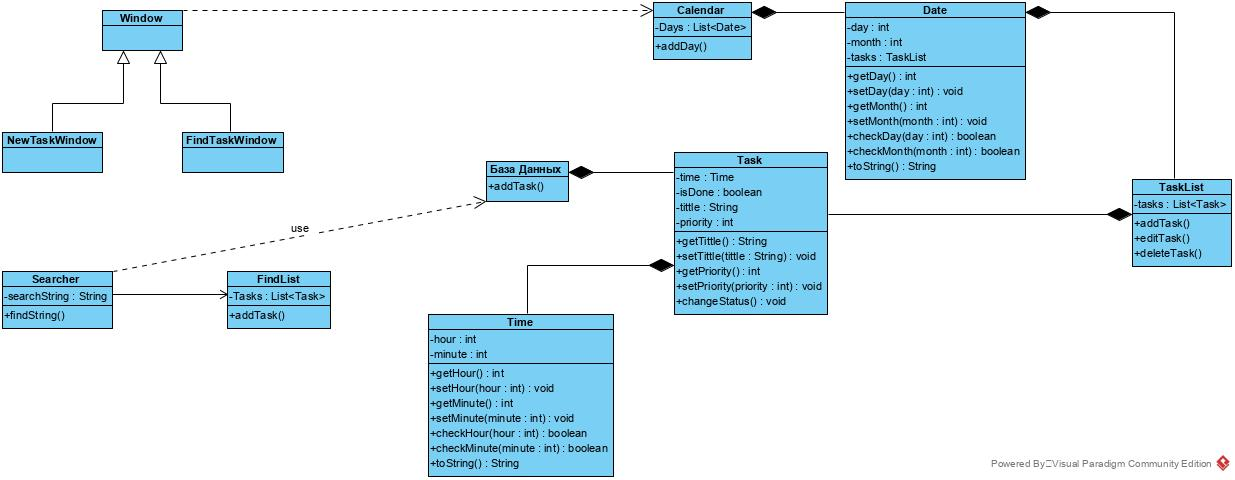
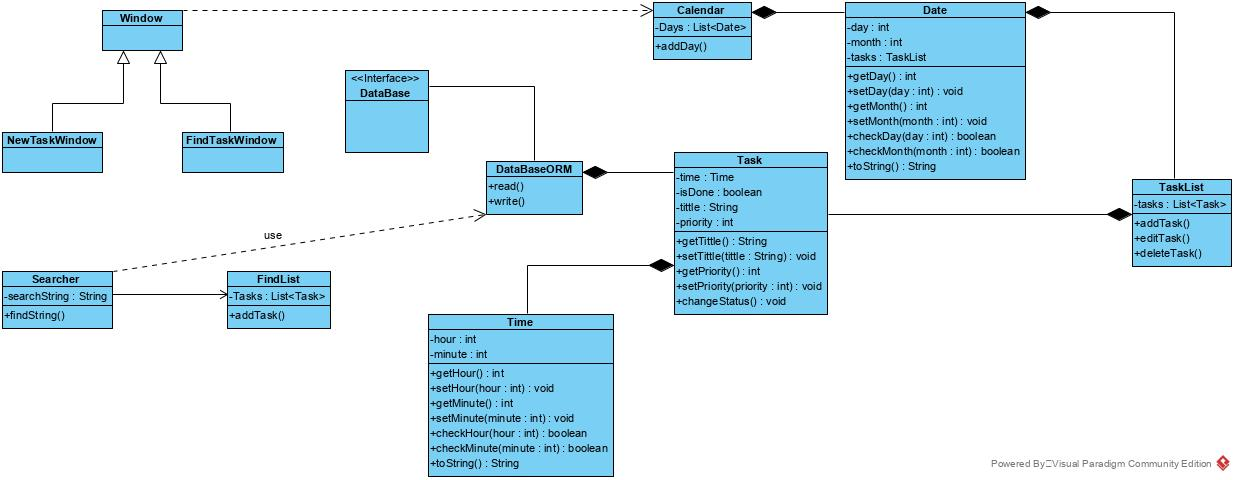
changed DataBase class

diff --git a/Documents/Diagram/Class.md b/Documents/Diagram/Class.md
@@ -1,3 +1,3 @@
-# Диаграмма класса
+# Диаграмма классов
 
 ![Диаграмма классов](../../Images/diagrams/Class%20Diagram1.jpg)
